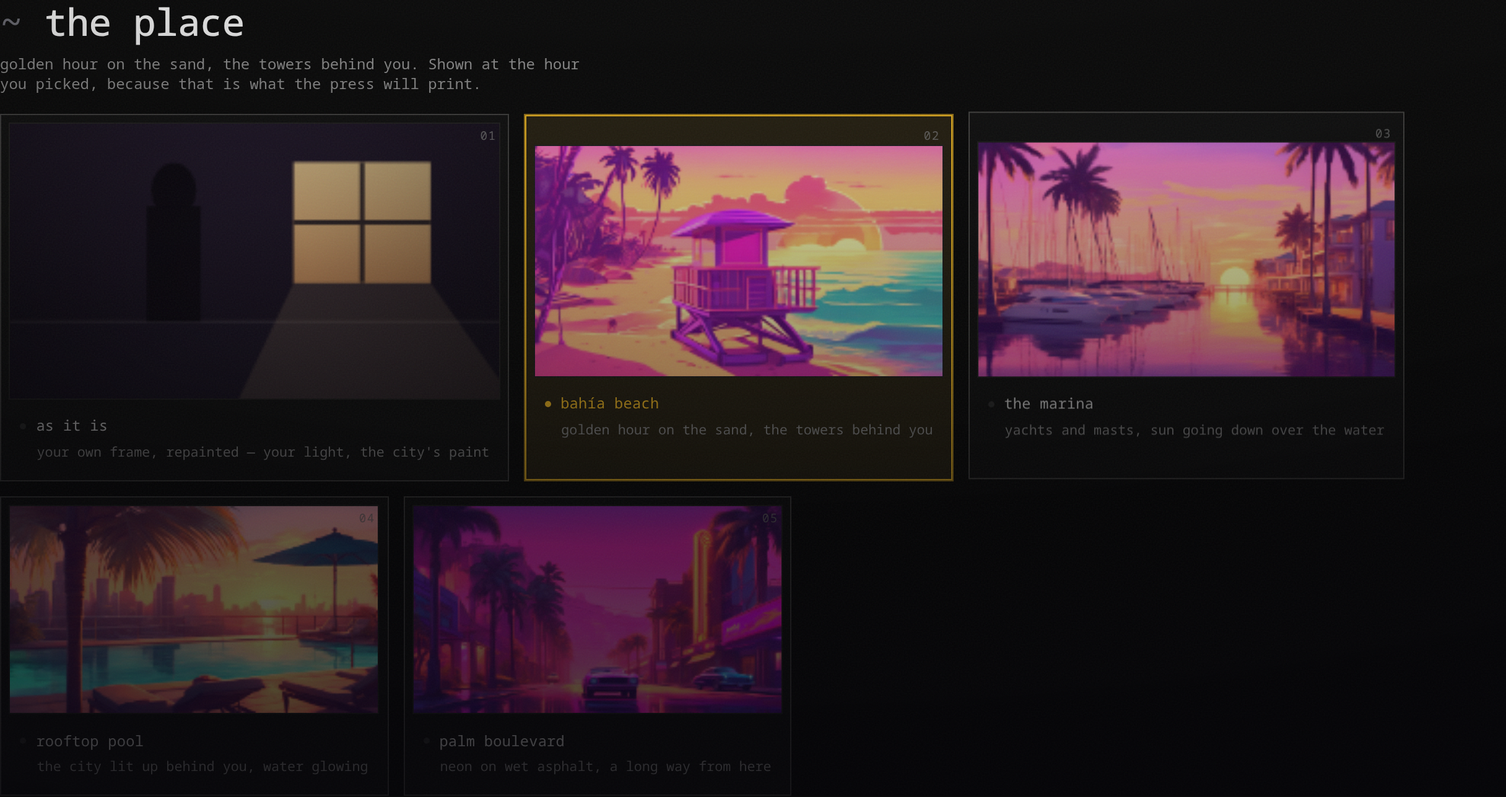
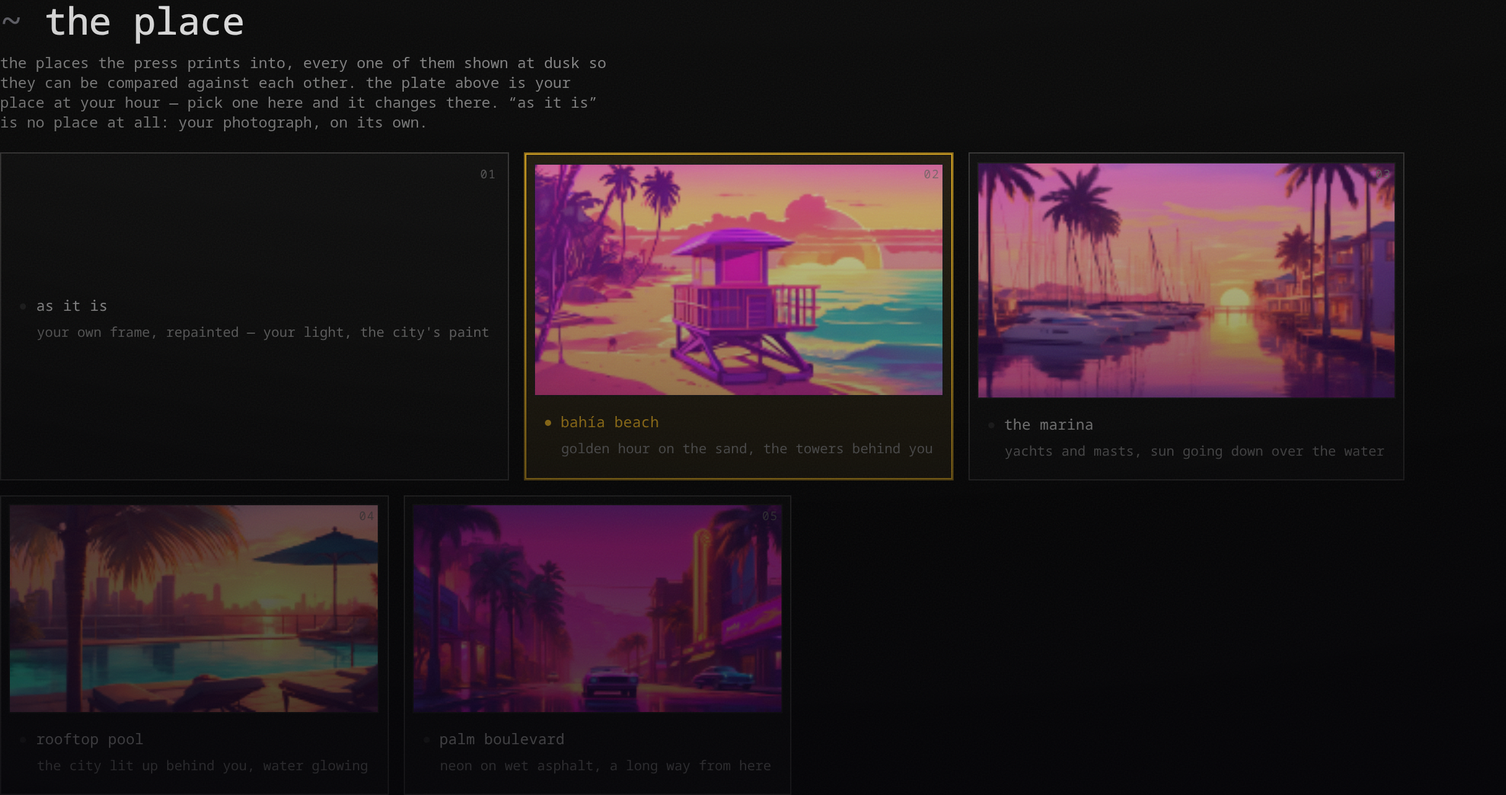
the choice rows hold a fixed reference, and stop chasing the preview
The hour strip rendered every thumbnail through the *current* place, and the place strip through the current
hour — so choosing a place re-drew all four hour tiles, and choosing an hour re-drew all four place tiles. A
strip whose options move while you compare them cannot be read, which is what "idk what you tried" was looking
at. Each row is now pinned: the hour strip is always the beach, the place strip is always at dusk, and the big
preview above them is the single thing that answers "what will I get" — your place at your hour, drawn by the
press's own code, captioned in two registers.

"as it is" no longer renders a thumbnail. It has no scene to show, and sceneSrc("asis") is an empty string, so
the tile was drawing into a canvas with no source — a blank frame among four drawings, i.e. the one that looks
broken. It is a deliberate blank now: caption in the same mat, its number in the corner.

tests: 199 unit, 54 e2e — new: read each hour tile's bytes, change the place, require them identical, then
require the preview to have changed (the stillness is design, not a dead page). Local full run: 51 passed /
1 failed — the phone walk only, which passes 3/3 alone and is the first spec to feel a 14GB box that is
already two-thirds full. CI has the memory and is the judge.

diff --git a/src/App.tsx b/src/App.tsx
@@ -668,8 +668,9 @@ export function App() {
                 <span style={{ color: "var(--color-faint)" }}>~ </span>the hour
               </h2>
               <p className="measure mt-2 text-xs" style={{ color: "var(--color-muted)" }}>
-                {LOOKS[look]?.blurb ?? ""} The hour grades the place — its sky, its water, its asphalt —
-                not only the person standing in it.
+                four hours, every one of them shown on the same place — the beach — so they can be compared
+                against each other. the hour grades the whole plate: its sky, its water, its asphalt, not only
+                the person standing in it.
               </p>
               <div
                 className="mt-4 grid grid-cols-2 gap-3 sm:flex sm:flex-wrap"
@@ -686,7 +687,9 @@ export function App() {
                     onClick={() => setLook(id)}
                     label={preset.label.toLowerCase()}
                     note={preset.blurb}
-                    media={<SceneThumb scene={scene} look={id} className="w-full sm:w-[220px]" />}
+                    /* One fixed place for the whole row. A thumbnail that re-renders when the *other* row
+                       changes is a strip you cannot compare, because the thing you are comparing moves. */
+                    media={<SceneThumb scene="beach" look={id} className="w-full sm:w-[220px]" />}
                   />
                 ))}
               </div>
@@ -696,8 +699,9 @@ export function App() {
                 <span style={{ color: "var(--color-faint)" }}>~ </span>the place
               </h2>
               <p className="measure mt-2 text-xs" style={{ color: "var(--color-muted)" }}>
-                {SCENES[scene].blurb}. Shown at the hour you picked, because that is what the press
-                will print.
+                the places the press prints into, every one of them shown at dusk so they can be compared
+                against each other. the plate above is your place at your hour — pick one here and it changes
+                there. “as it is” is no place at all: your photograph, on its own.
               </p>
               <div
                 className="mt-4 grid grid-cols-2 gap-3 sm:flex sm:flex-wrap"
@@ -714,7 +718,13 @@ export function App() {
                     onClick={() => setScene(id)}
                     label={SCENES[id].label.toLowerCase()}
                     note={SCENES[id].blurb}
-                    media={<SceneThumb scene={id} look={look} className="w-full sm:w-[220px]" />}
+                    /* One fixed hour for the whole row, and no thumbnail for “as it is”: it has no scene to
+                       show, and a blank frame among four drawings reads as the broken one. */
+                    media={
+                      id === "asis" ? undefined : (
+                        <SceneThumb scene={id} look="dusk" className="w-full sm:w-[220px]" />
+                      )
+                    }
                   />
                 ))}
               </div>

diff --git a/tests/e2e/tiles.spec.ts b/tests/e2e/tiles.spec.ts
@@ -86,6 +86,38 @@ test.describe("the choices", () => {
     expect(caption.toLowerCase()).toContain("night");
   });
 
+  test("the rows hold still: the hour strip does not re-render when the place changes", async ({ page }) => {
+    await page.goto("/");
+    await page.waitForSelector('[data-testid="look-dusk"]');
+    // Each hour tile's own drawing, as bytes. A strip whose thumbnails re-render when the *other* row
+    // changes cannot be compared, because the thing being compared moves.
+    const hourStrip = async (): Promise<string> =>
+      page.evaluate(() =>
+        Array.from(document.querySelectorAll('[data-testid^="look-"]'))
+          .map((tile) => {
+            const canvas = tile.querySelector("canvas") as HTMLCanvasElement | null;
+            return canvas ? canvas.toDataURL().slice(-28) : "none";
+          })
+          .join("|"),
+      );
+    const previewOf = async (): Promise<string> =>
+      page
+        .locator('[data-testid="pick-preview-canvas"]')
+        .evaluate((el) => (el as HTMLCanvasElement).toDataURL().slice(-28));
+
+    const hoursBefore = await hourStrip();
+    const previewBefore = await previewOf();
+    expect(previewBefore).not.toBe("none");
+
+    await page.locator('[data-testid="scene-marina"]').click();
+    await expect(page.locator('[data-testid="scene-marina"]')).toHaveAttribute("aria-pressed", "true");
+    // The strip holds still through the change...
+    await page.waitForTimeout(1200);
+    expect(await hourStrip(), "the hour strip re-drew when the place changed").toBe(hoursBefore);
+    // ...and the preview follows it, so the stillness is the strip's design and not a dead page.
+    await expect.poll(previewOf, { timeout: 10_000 }).not.toBe(previewBefore);
+  });
+
   test("the tiles are touch-sized on a phone", async ({ page }) => {
     await page.setViewportSize({ width: 390, height: 844 });
     await page.goto("/");

diff --git a/README.md b/README.md
@@ -44,7 +44,7 @@ it would break the continuity of the redraw.*
 | app | react 19 · typescript · vite 8 · tailwind 4 · motion · three (hero canvas only) |
 | cut | `@mediapipe/tasks-vision` 1.0 — six-class selfie segmentation, models served from our own origin |
 | editor | `@unlayer/react-image-editor` 1.0 — tool sets gated per surface |
-| tests | vitest (unit, 199) · playwright (e2e, 53 including a real-touch phone walk) |
+| tests | vitest (unit, 199) · playwright (e2e, 54 including a real-touch phone walk) |
 
 ## the pipeline
 
@@ -266,9 +266,11 @@ the hero's own box and the height of the document, measured after the ease has r
 
 the hour, the place and the finish are the same act, so they are the same object: a **tile** — a mat, a
 caption in the open, one gold mark that travels between neighbours — built from the same parts as the contact
-sheet below it. the hour and the place show themselves before anyone commits a photograph (each scene, graded
-by the press's own code, so if a thumbnail and the printed frame ever disagreed that would be a bug), and the
-finish says what it prints in pixels: bars to scale, labelled 1280 and 1900, rather than two words in a box.
+sheet below it. Each row holds a **fixed reference** so it can be compared: the hour strip is always the beach,
+the place strip is always at dusk, and “as it is” carries no thumbnail because it has no scene to show. The
+**preview** above them is the one thing that answers “what will I get” — the place you chose at the hour you
+chose, drawn by the press's own code — and a tile that re-rendered when the *other* row changed would be a
+strip you cannot read: that is asserted, not assumed.
 
 the gallery sits *after* the choices now, and reads as evidence rather than decoration: the plates are what
 the picker above them produces. `tests/e2e/tiles.spec.ts` holds both halves — one chosen tile per group,
